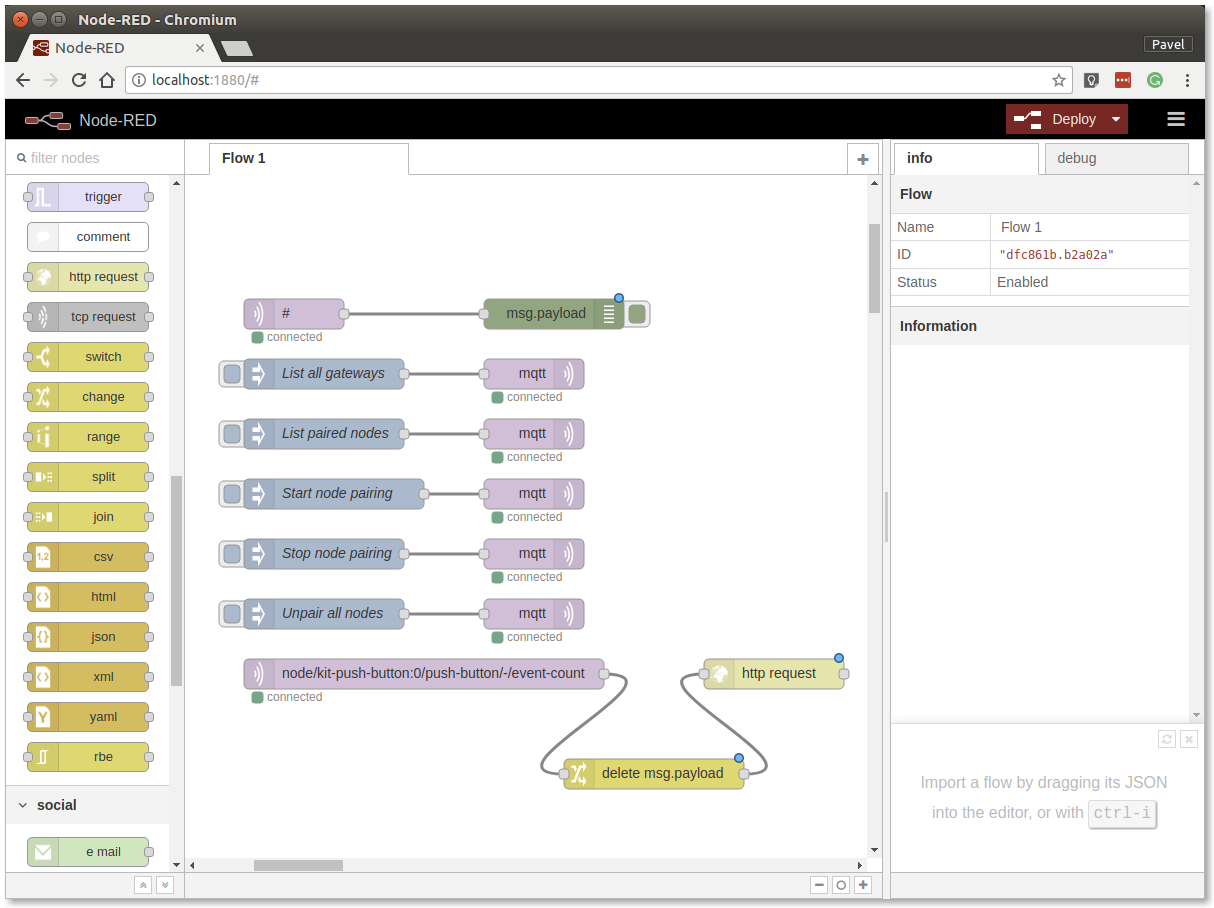
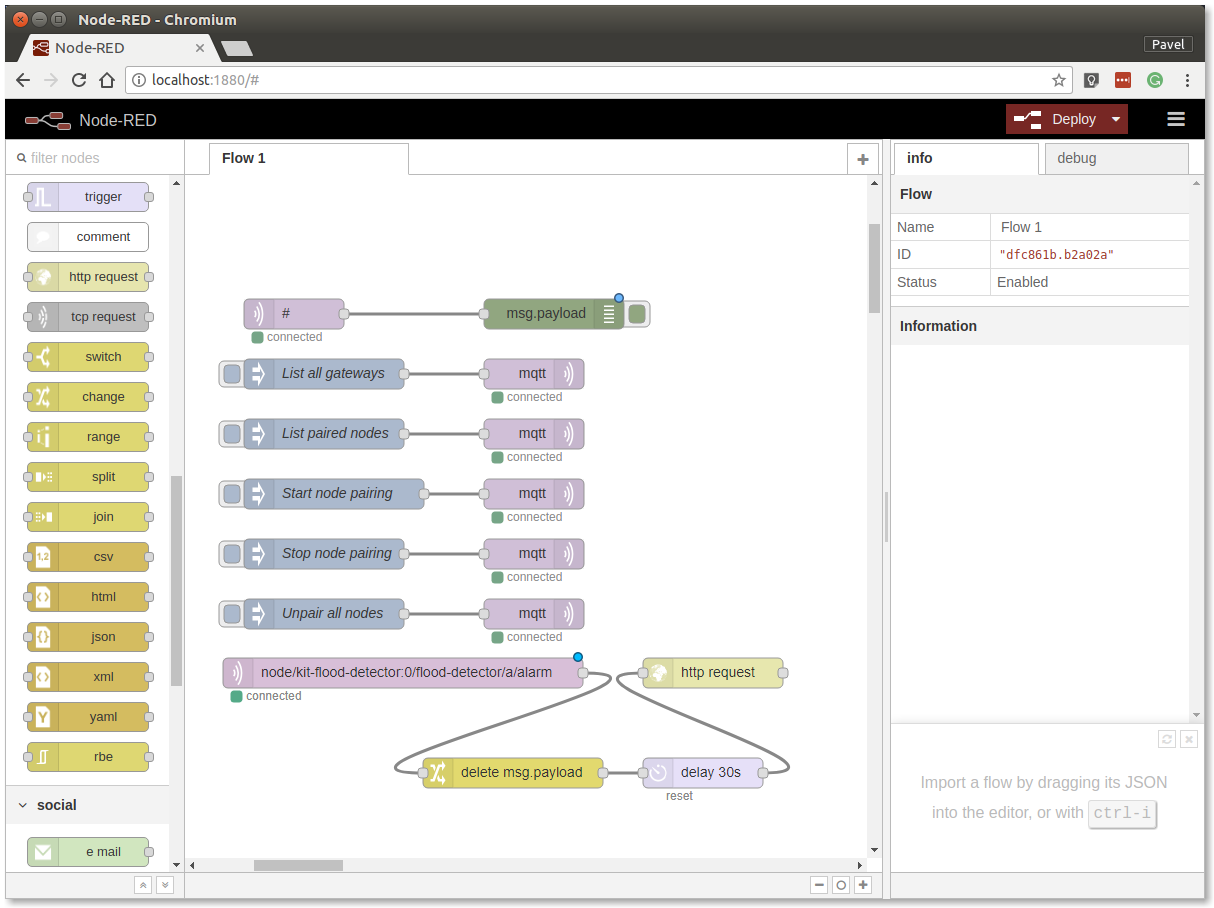
Fix leftovers

Changed region(s): [[0.1829, 0.7093, 0.701, 0.8943]]

diff --git a/content/doc/projects/wireless-flood-detector.md b/content/doc/projects/wireless-flood-detector.md
@@ -244,7 +244,7 @@ In this section, we will create a link between the button event on MQTT and HTTP
 
     {{% img-zoom src="node-red-ifttt-snippet.png" %}}
 
-    {{% note "info" %}}This snippet creates a connection between the MQTT topic `node/kit-push-button:0/push-button/-/event-count` and an HTTP request. Before passing the message to the HTTP request, we remove the `payload` parameter since it would be used in the HTTP request body.{{% /note %}}
+    {{% note "info" %}}This snippet creates a connection between the MQTT topic `node/kit-flood-detector:0/flood-detector/a/alarm` and an HTTP request. Before passing the message to the HTTP request, we remove the `payload` parameter since it would be used in the HTTP request body.{{% /note %}}
 
 3. Double click on **http request** node and edit the IFTTT URL obtained in the previous section:
 
